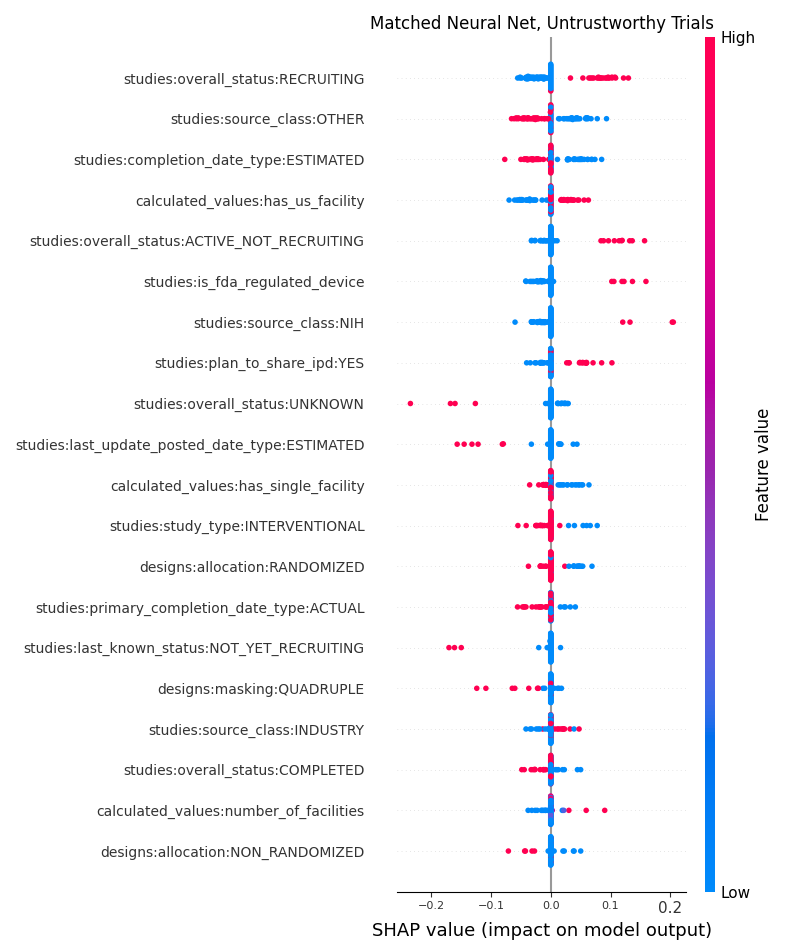
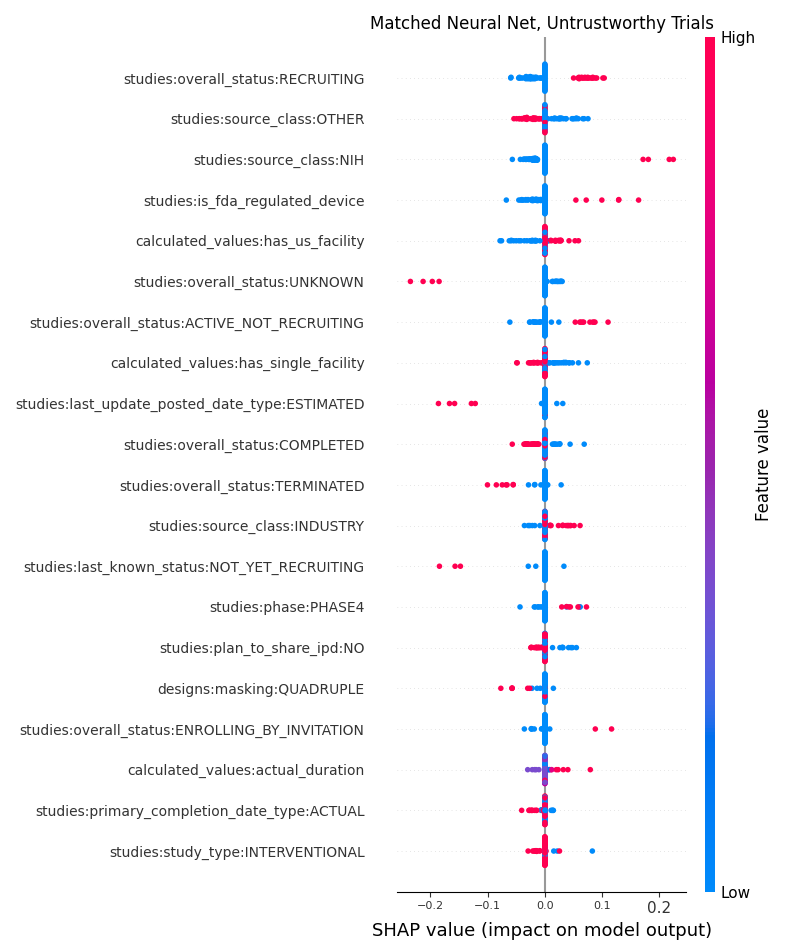
Adjusting NN parameters with GridSearchCV to maximize accuracy

diff --git a/ml/neural_net_logged.py b/ml/neural_net_logged.py
@@ -13,6 +13,7 @@ from sklearn.metrics import confusion_matrix
 import matplotlib.pyplot as plt
 import seaborn as sns
 import shap
+from sklearn.model_selection import GridSearchCV
 
 # Command line arguments: 
 parser = argparse.ArgumentParser(description="Train with custom epochs")
@@ -24,7 +25,7 @@ args = parser.parse_args()
 df = pd.read_pickle("matched_featureTable_labeled.pkl") #160 columns/ features
 
 # Splitting data:
-X = df.drop(columns=["nct_id", "label"])
+X = df.drop(columns=["nct_id", "label",'studies:is_ppsd' ])
 y = df["label"]
 X = X[y.notna()]
 y = y[y.notna()].astype(int)
@@ -42,16 +43,31 @@ X_test = X_test.drop(columns=train_empty_cols)
 nn_pipeline = Pipeline([
     ('imputer', SimpleImputer(strategy='median')),
     ('minmax', MinMaxScaler()),     # Instead of standard schalar bc chi2 cant take negs
-    ('chi2', SelectKBest(score_func=chi2, k=96)),         
-    ('nn', MLPClassifier(hidden_layer_sizes=(64, 32), 
+    ('chi2', SelectKBest(score_func=chi2, k=120)),         
+    ('nn', MLPClassifier(hidden_layer_sizes=(100, 50), 
                          activation='relu', 
                          learning_rate="adaptive",
-                         learning_rate_init=1e-4,
+                         learning_rate_init=0.001,
                          solver='adam', 
                          early_stopping=True,
-                         max_iter=args.epochs, 
+                         max_iter=200, 
                          random_state=36))
 ])
+
+# GridsearchCV to maximize params
+# param_grid = {
+#     'chi2__k': [50, 75, 96, 120],
+#     'nn__hidden_layer_sizes': [(64, 32), (100, 50), (50, 25)],
+#     'nn__learning_rate_init': [1e-3, 1e-4],
+#     'nn__max_iter': [200, 500]
+# }
+
+# grid = GridSearchCV(nn_pipeline, param_grid, cv=5, scoring='accuracy', n_jobs=-1, verbose=2)
+# grid.fit(X_train, y_train)
+
+# print("Best params:", grid.best_params_)
+# print("Best CV accuracy:", grid.best_score_)
+
 
 # Training
 nn_pipeline.fit(X_train, y_train)
@@ -70,19 +86,19 @@ with open("nn_training_log.txt", "a") as f: #the "a" means append mode
 
 
 # confusion matrix aka 2x2 or contingency table
-cm = confusion_matrix(y_test, y_pred)
-print("Confusion Matrix:")
-print(cm)
+# cm = confusion_matrix(y_test, y_pred)
+# print("Confusion Matrix:")
+# print(cm)
 
-plt.figure(figsize=(8, 6))
-sns.heatmap(cm, annot=True, fmt="d", cmap="Blues",
-            xticklabels=['Predicted 0', 'Predicted 1'],
-            yticklabels=['Actual 0', 'Actual 1'])
-plt.xlabel('Predicted Label')
-plt.ylabel('True Label')
-plt.title('Neural Net Contingency Table (matched)')
-plt.savefig("nn_contingency_matched.png")
-plt.close()
+# plt.figure(figsize=(8, 6))
+# sns.heatmap(cm, annot=True, fmt="d", cmap="Blues",
+#             xticklabels=['Predicted 0', 'Predicted 1'],
+#             yticklabels=['Actual 0', 'Actual 1'])
+# plt.xlabel('Predicted Label')
+# plt.ylabel('True Label')
+# plt.title('Neural Net Contingency Table (matched)')
+# plt.savefig("nn_contingency_matched.png")
+# plt.close()
 
 
 # Get a confidence score:
